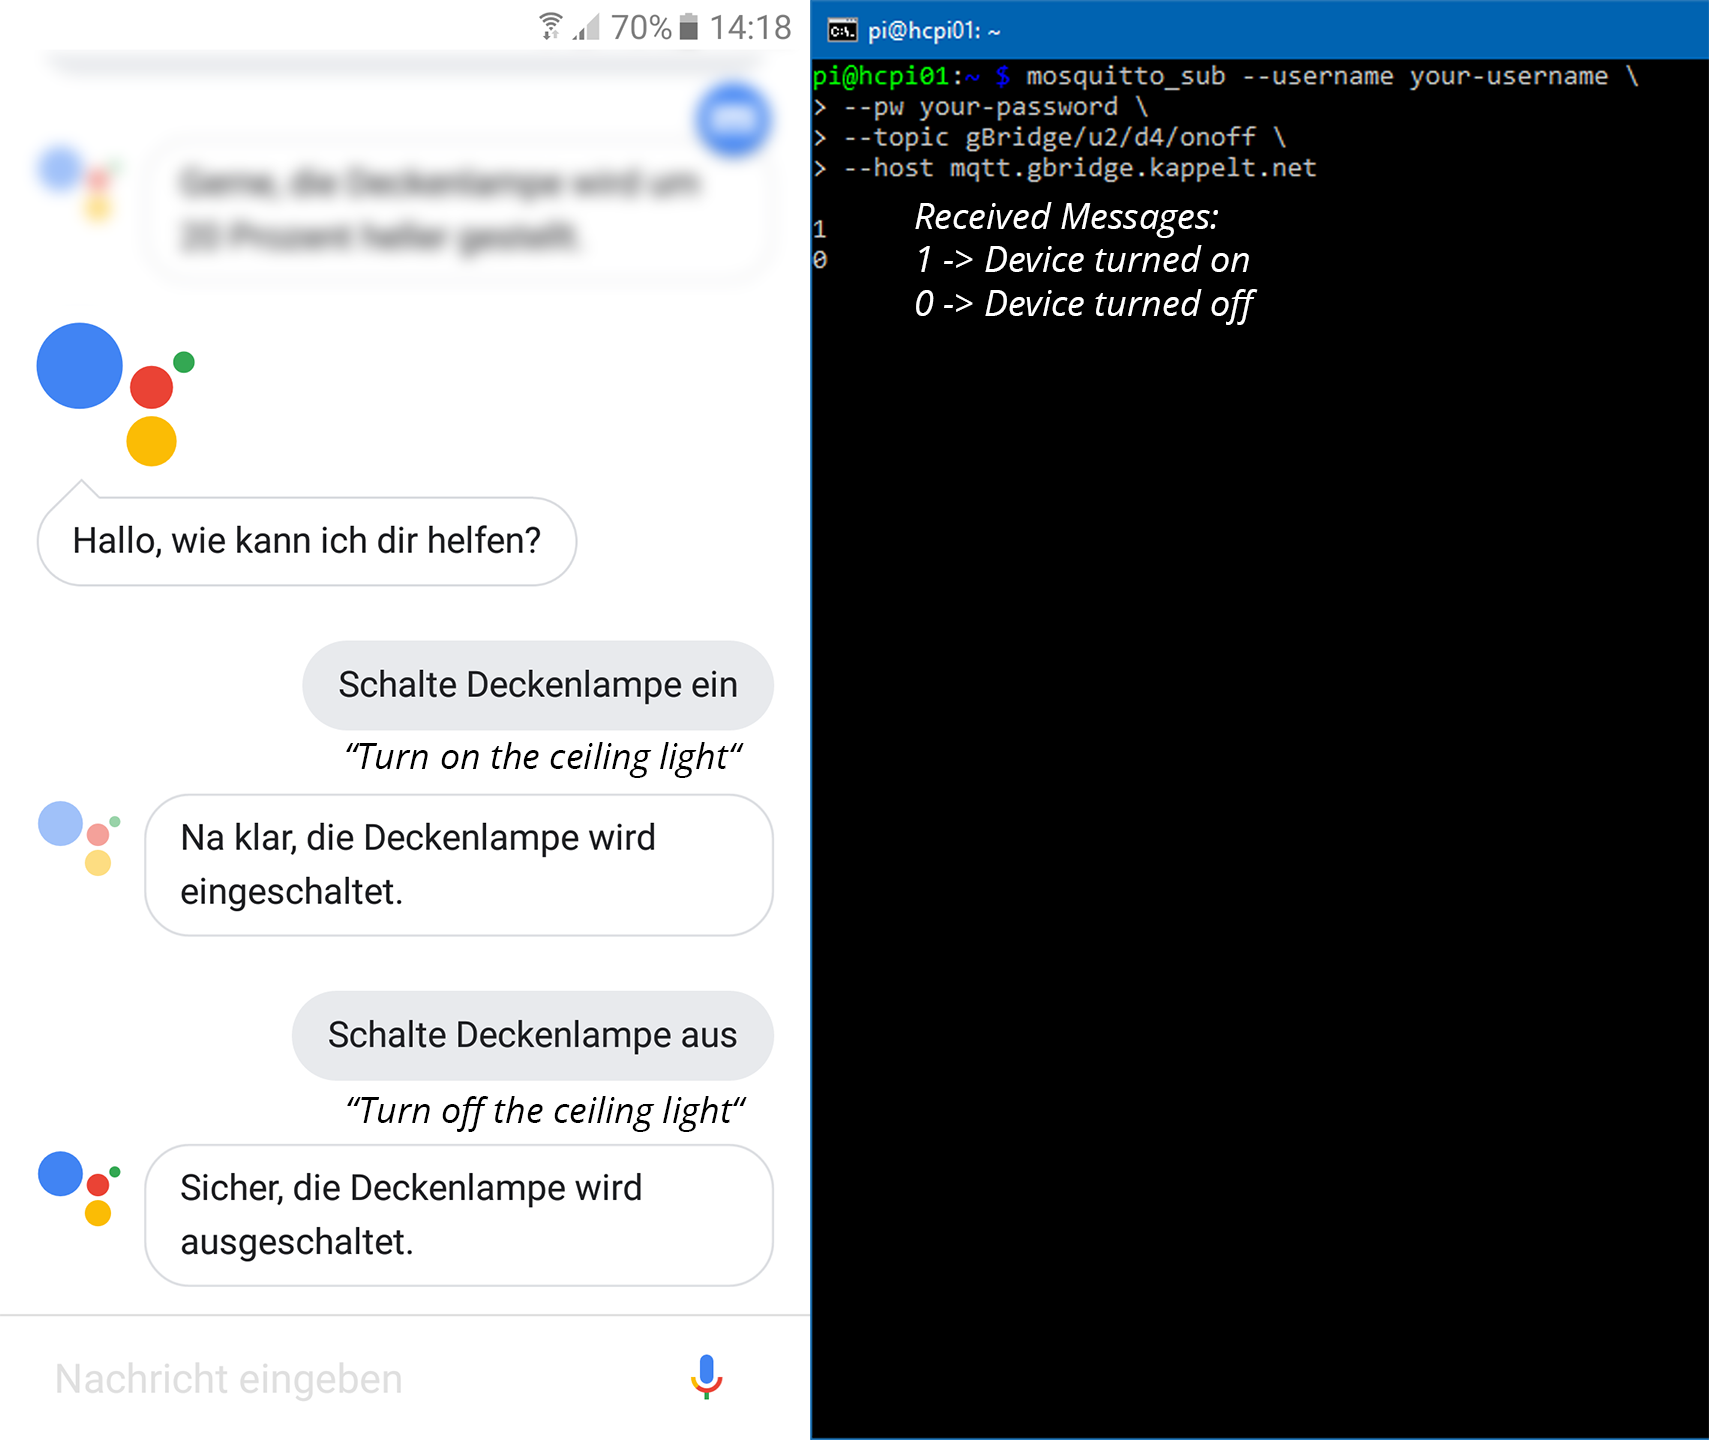
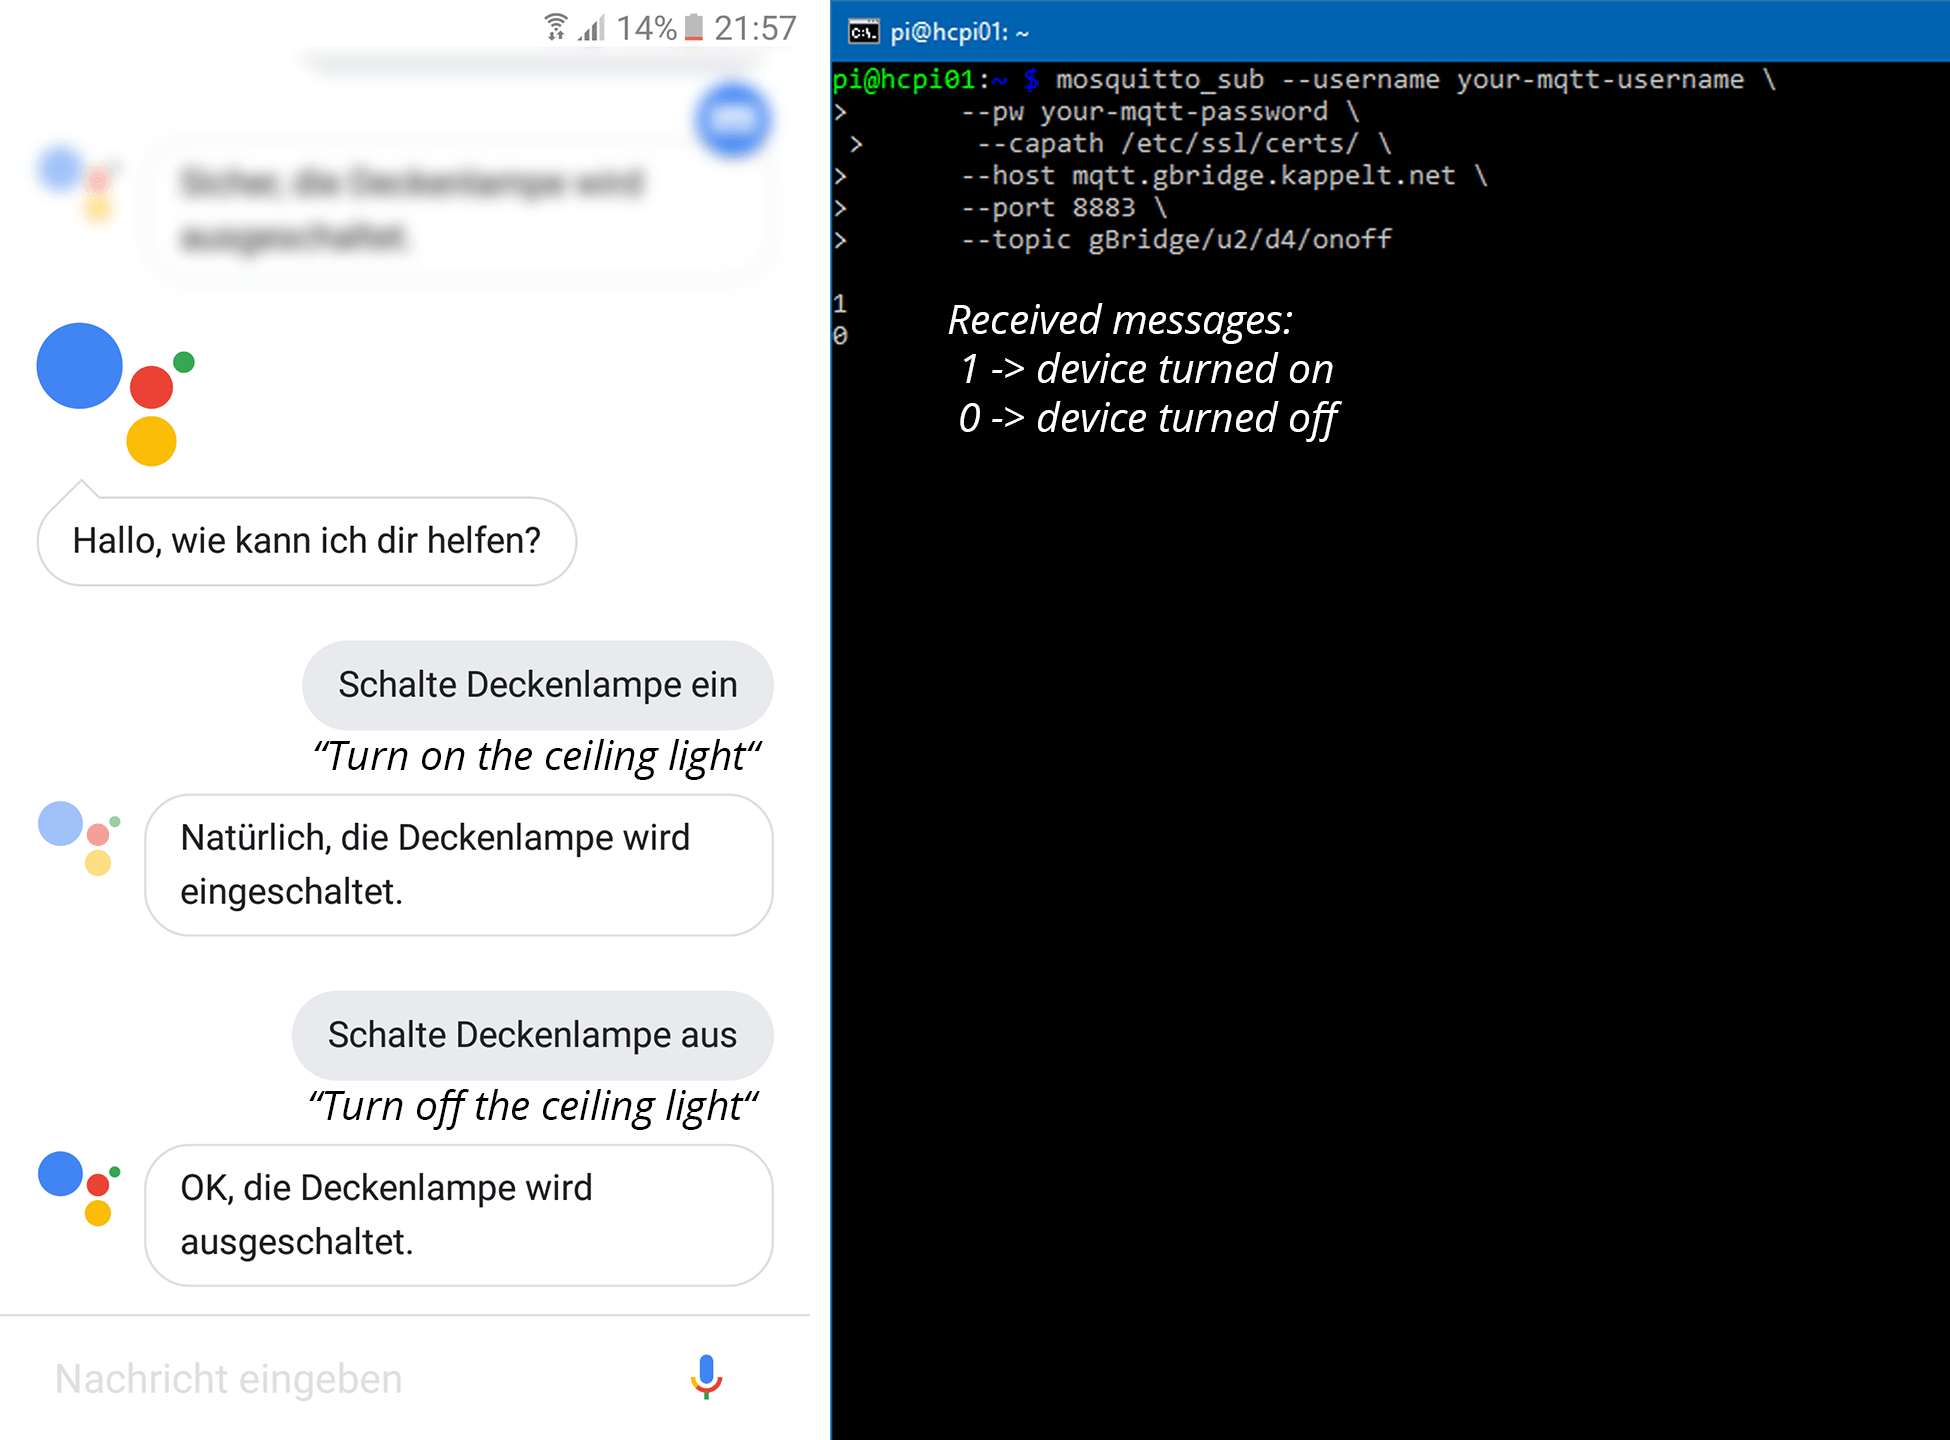
Documentation for MQTT server TLS

diff --git a/docs/html/searchindex.js b/docs/html/searchindex.js
@@ -1,1 +1,1 @@
-Search.setIndex({docnames:["firstSteps/gettingStarted","index"],envversion:52,filenames:["firstSteps\\gettingStarted.rst","index.rst"],objects:{},objnames:{},objtypes:{},terms:{"400px":[],"final":1,"new":1,"public":0,But:1,For:0,Not:0,TLS:0,That:0,_static:[],about:1,accesskei:0,account:1,act:1,activ:0,adapt:0,add:0,after:0,align:[],all:[0,1],allow:1,almost:1,alt:[],altern:[],anoth:0,app:[0,1],appear:0,applianc:1,applic:1,assign:0,assist:1,automat:0,avail:0,bash:[],befor:0,belong:0,beta:0,between:1,block:[],both:0,bridg:1,bright:0,button:0,can:[0,1],care:1,center:[],choos:0,chosen:0,click:0,code:[],command:0,complic:0,confirm:0,congratul:0,connect:1,content:[],control:1,creat:0,dashboard:[0,1],debug:1,defin:1,devic:1,differ:0,don:1,done:0,dure:0,easili:0,email:0,empti:[],enter:0,everi:1,everyth:0,exampl:0,figclass:[],figur:[],fill:0,first:1,fulli:0,further:1,gbridg:[0,1],gener:0,get:1,googl:1,great:1,handl:1,have:[0,1],hei:1,here:0,home:[0,1],host:[0,1],hostnam:0,hour:0,howev:[0,1],http:[0,1],index:[],inexpens:1,inform:0,instal:1,instantli:0,interact:1,interest:1,just:0,kappelt:[0,1],label:0,later:0,lead:0,let:1,light:[0,1],like:[0,1],link:0,list:[0,1],live:1,log:0,look:1,made:0,mail:0,mainten:1,manual:0,messag:[0,1],might:[0,1],modul:[],mosquitto_sub:0,most:1,move:0,mqtt:[0,1],navig:0,need:0,net:[0,1],newli:0,note:0,now:0,off:0,onc:0,one:0,onoff:0,open:[0,1],own:0,page:[],password:0,phase:0,png:[],port:0,press:0,process:1,provid:1,publish:[0,1],readi:0,real:1,receiv:0,regist:1,requir:0,right:0,room:[0,1],run:0,search:[],see:0,select:0,server:0,servic:0,set:[0,1],shown:0,sinc:0,small:0,smart:[0,1],some:0,sourc:1,start:1,step:1,subscrib:0,support:[0,1],system:0,tab:0,take:0,test:1,text:[],thei:0,thi:[0,1],time:0,top:0,topic:0,trait:0,turn:1,type:0,under:0,use:0,used:0,user:1,usernam:0,virtual:[0,1],visit:0,voic:0,wai:1,whatev:0,when:1,width:[],work:1,yet:0,you:[0,1],your:[0,1]},titles:["Getting Started","Introduction"],titleterms:{"new":0,account:0,assist:0,connect:0,dashboard:[],devic:0,first:0,get:0,googl:0,indic:[],introduct:1,regist:0,start:0,tabl:[],test:0}})
+Search.setIndex({docnames:["firstSteps/gettingStarted","index"],envversion:52,filenames:["firstSteps\\gettingStarted.rst","index.rst"],objects:{},objnames:{},objtypes:{},terms:{"400px":[],"final":1,"new":1,"public":0,But:1,For:0,Not:[],TLS:0,That:0,The:0,_static:[],about:[0,1],accesskei:0,account:1,act:1,activ:0,adapt:0,add:0,after:0,align:[],all:[0,1],allow:1,almost:1,alt:[],altern:[],anoth:0,app:[0,1],appear:0,applianc:1,applic:1,assign:0,assist:1,automat:0,avail:0,bash:[],befor:0,belong:0,beta:0,between:1,block:[],both:0,bridg:1,bright:0,button:0,can:[0,1],capath:0,care:1,center:[],cert:0,certif:0,choos:0,chosen:0,click:0,code:[],command:0,complic:0,confirm:0,congratul:0,connect:1,content:[],control:1,creat:0,dashboard:[0,1],debug:1,defin:1,devic:1,differ:0,doesn:0,don:1,done:0,download:0,dure:0,easili:0,email:0,empti:[],encrypt:0,enter:0,etc:0,everi:1,everyth:0,exampl:0,figclass:[],figur:[],fill:0,first:1,fulli:0,further:1,gbridg:[0,1],gener:0,get:1,googl:1,great:1,handl:1,have:[0,1],hei:1,here:0,home:[0,1],host:[0,1],hostnam:0,hour:0,howev:[0,1],http:[0,1],index:[],inexpens:1,inform:0,instal:[0,1],instantli:0,interact:1,interest:1,just:0,kappelt:[0,1],label:0,later:0,lead:0,let:[0,1],light:[0,1],like:[0,1],link:0,list:[0,1],live:1,log:0,look:1,made:0,mail:0,mainten:1,manual:0,messag:[0,1],might:[0,1],modul:[],mosquitto_sub:0,most:[0,1],move:0,mqtt:[0,1],nativ:0,navig:0,need:0,net:[0,1],newli:0,note:0,now:0,nowadai:0,off:0,onc:0,one:0,onli:0,onoff:0,open:[0,1],own:0,page:[],password:0,phase:0,png:[],port:0,prepar:0,press:0,process:1,provid:1,publish:[0,1],readi:0,real:1,realli:0,receiv:0,regist:1,requir:0,right:0,room:[0,1],run:0,search:[],see:0,select:0,server:0,servic:0,set:[0,1],shouldn:0,shown:0,sign:0,sinc:0,small:0,smart:[0,1],some:0,sourc:1,ssl:0,start:1,step:1,subscrib:0,support:[0,1],system:0,tab:0,take:0,test:1,text:[],thei:0,them:0,thi:[0,1],time:0,top:0,topic:0,trait:0,trust:0,turn:1,type:0,under:0,use:0,used:0,user:1,usernam:0,uses:0,virtual:[0,1],visit:0,voic:0,wai:1,whatev:0,when:1,width:[],work:1,yet:[],you:[0,1],your:[0,1]},titles:["Getting Started","Introduction"],titleterms:{"new":0,account:0,assist:0,connect:0,dashboard:[],devic:0,first:0,get:0,googl:0,indic:[],introduct:1,regist:0,start:0,tabl:[],test:0}})

diff --git a/docs/html/firstSteps/gettingStarted.html b/docs/html/firstSteps/gettingStarted.html
@@ -211,21 +211,26 @@
 <tbody valign="top">
 <tr class="field-odd field"><th class="field-name">Hostname:</th><td class="field-body">mqtt.gbridge.kappelt.net</td>
 </tr>
-<tr class="field-even field"><th class="field-name">Port:</th><td class="field-body">1883</td>
+<tr class="field-even field"><th class="field-name">Port:</th><td class="field-body">8883</td>
 </tr>
 <tr class="field-odd field"><th class="field-name">Username:</th><td class="field-body">Shown in your account’s dashboard under “My Account”</td>
 </tr>
-<tr class="field-even field"><th class="field-name">Password:</th><td class="field-body">Shown in your account’s dashboard under “My Account”</td>
+<tr class="field-even field"><th class="field-name">Password:</th><td class="field-body">Needs to be set once in your account’s dashboard</td>
 </tr>
-<tr class="field-odd field"><th class="field-name">TLS:</th><td class="field-body">Not yet supported</td>
+<tr class="field-odd field"><th class="field-name">TLS:</th><td class="field-body">TLS V1.3 is required</td>
 </tr>
 </tbody>
 </table>
+<p><strong>About TLS:</strong> The Server uses an certificate that is signed by Let’s Encrypt.
+The Let’s Encrypt CA is trusted by most systems nowadays, you shouldn’t really need to install a certificate.
+<a class="reference external" href="https://about.gbridge.kappelt.net/static/LetsEncrypt-AllCAs.pem">Only download the prepared CA certificates</a> if your system doesn’t support them natively.</p>
 <p>Subscribe now to the MQTT topic that belongs to your device, for example with <em>mosquitto_sub</em>:</p>
-<div class="highlight-bash notranslate"><div class="highlight"><pre><span></span>mosquitto_sub --username your-username <span class="se">\</span>
-   --pw your-password <span class="se">\</span>
-   --topic gBridge/u2/d4/onoff <span class="se">\</span>
-   --host mqtt.gbridge.kappelt.net
+<div class="highlight-bash notranslate"><div class="highlight"><pre><span></span>mosquitto_sub --username your-mqtt-username <span class="se">\</span>
+   --pw your-mqtt-password <span class="se">\</span>
+   --capath /etc/ssl/certs/ <span class="se">\</span>
+   --host mqtt.gbridge.kappelt.net <span class="se">\</span>
+   --port <span class="m">8883</span> <span class="se">\</span>
+   --topic gBridge/u2/d4/onoff
 </pre></div>
 </div>
 <div class="align-center figure" id="id6">
@@ -257,7 +262,7 @@
 
     </p>
   </div>
-  Built with <a href="http://sphinx-doc.org/">Sphinx</a> using a <a href="https://github.com/rtfd/sphinx_rtd_theme">theme</a> provided by <a href="https://readthedocs.org">Read the Docs</a>. <jinja2.runtime.BlockReference object at 0x0000000005B1C1D0> 
+  Built with <a href="http://sphinx-doc.org/">Sphinx</a> using a <a href="https://github.com/rtfd/sphinx_rtd_theme">theme</a> provided by <a href="https://readthedocs.org">Read the Docs</a>. <jinja2.runtime.BlockReference object at 0x00000000051564A8> 
 
 <br>
 <a href="https://github.com/kservices/gBridge">gBridge on Github</a><br>

diff --git a/docs/html/index.html b/docs/html/index.html
@@ -195,7 +195,7 @@ When you interact with a virtual device you’ve defined (“Hey Google, turn on
 
     </p>
   </div>
-  Built with <a href="http://sphinx-doc.org/">Sphinx</a> using a <a href="https://github.com/rtfd/sphinx_rtd_theme">theme</a> provided by <a href="https://readthedocs.org">Read the Docs</a>. <jinja2.runtime.BlockReference object at 0x0000000005CD4390> 
+  Built with <a href="http://sphinx-doc.org/">Sphinx</a> using a <a href="https://github.com/rtfd/sphinx_rtd_theme">theme</a> provided by <a href="https://readthedocs.org">Read the Docs</a>. <jinja2.runtime.BlockReference object at 0x00000000053B34E0> 
 
 <br>
 <a href="https://github.com/kservices/gBridge">gBridge on Github</a><br>

diff --git a/docs/html/genindex.html b/docs/html/genindex.html
@@ -165,7 +165,7 @@
 
     </p>
   </div>
-  Built with <a href="http://sphinx-doc.org/">Sphinx</a> using a <a href="https://github.com/rtfd/sphinx_rtd_theme">theme</a> provided by <a href="https://readthedocs.org">Read the Docs</a>. <jinja2.runtime.BlockReference object at 0x0000000005CD4B38> 
+  Built with <a href="http://sphinx-doc.org/">Sphinx</a> using a <a href="https://github.com/rtfd/sphinx_rtd_theme">theme</a> provided by <a href="https://readthedocs.org">Read the Docs</a>. <jinja2.runtime.BlockReference object at 0x0000000005398DD8> 
 
 <br>
 <a href="https://github.com/kservices/gBridge">gBridge on Github</a><br>

diff --git a/docs/html/search.html b/docs/html/search.html
@@ -170,7 +170,7 @@
 
     </p>
   </div>
-  Built with <a href="http://sphinx-doc.org/">Sphinx</a> using a <a href="https://github.com/rtfd/sphinx_rtd_theme">theme</a> provided by <a href="https://readthedocs.org">Read the Docs</a>. <jinja2.runtime.BlockReference object at 0x0000000005E9B128> 
+  Built with <a href="http://sphinx-doc.org/">Sphinx</a> using a <a href="https://github.com/rtfd/sphinx_rtd_theme">theme</a> provided by <a href="https://readthedocs.org">Read the Docs</a>. <jinja2.runtime.BlockReference object at 0x0000000005398C50> 
 
 <br>
 <a href="https://github.com/kservices/gBridge">gBridge on Github</a><br>

diff --git a/doc_build/source/firstSteps/gettingStarted.rst b/doc_build/source/firstSteps/gettingStarted.rst
@@ -82,19 +82,25 @@ Test it
 Everything is ready now! Messages will now be available on gBridge's public MQTT server. You can connect to it:
 
 :Hostname: mqtt.gbridge.kappelt.net
-:Port: 1883
+:Port: 8883
 :Username: Shown in your account's dashboard under "My Account"
-:Password: Shown in your account's dashboard under "My Account"
-:TLS: Not yet supported
+:Password: Needs to be set once in your account's dashboard
+:TLS: TLS V1.3 is required
+
+**About TLS:** The Server uses an certificate that is signed by Let's Encrypt. 
+The Let's Encrypt CA is trusted by most systems nowadays, you shouldn't really need to install a certificate. 
+`Only download the prepared CA certificates <https://about.gbridge.kappelt.net/static/LetsEncrypt-AllCAs.pem>`_ if your system doesn't support them natively. 
 
 Subscribe now to the MQTT topic that belongs to your device, for example with *mosquitto_sub*:
 
 .. code-block:: bash
 
-   mosquitto_sub --username your-username \
-      --pw your-password \
-      --topic gBridge/u2/d4/onoff \
-      --host mqtt.gbridge.kappelt.net
+   mosquitto_sub --username your-mqtt-username \
+      --pw your-mqtt-password \
+      --capath /etc/ssl/certs/ \
+      --host mqtt.gbridge.kappelt.net \
+      --port 8883 \
+      --topic gBridge/u2/d4/onoff
 
 .. figure:: ../_static/googlehome-try-it.png
    :width: 100%
